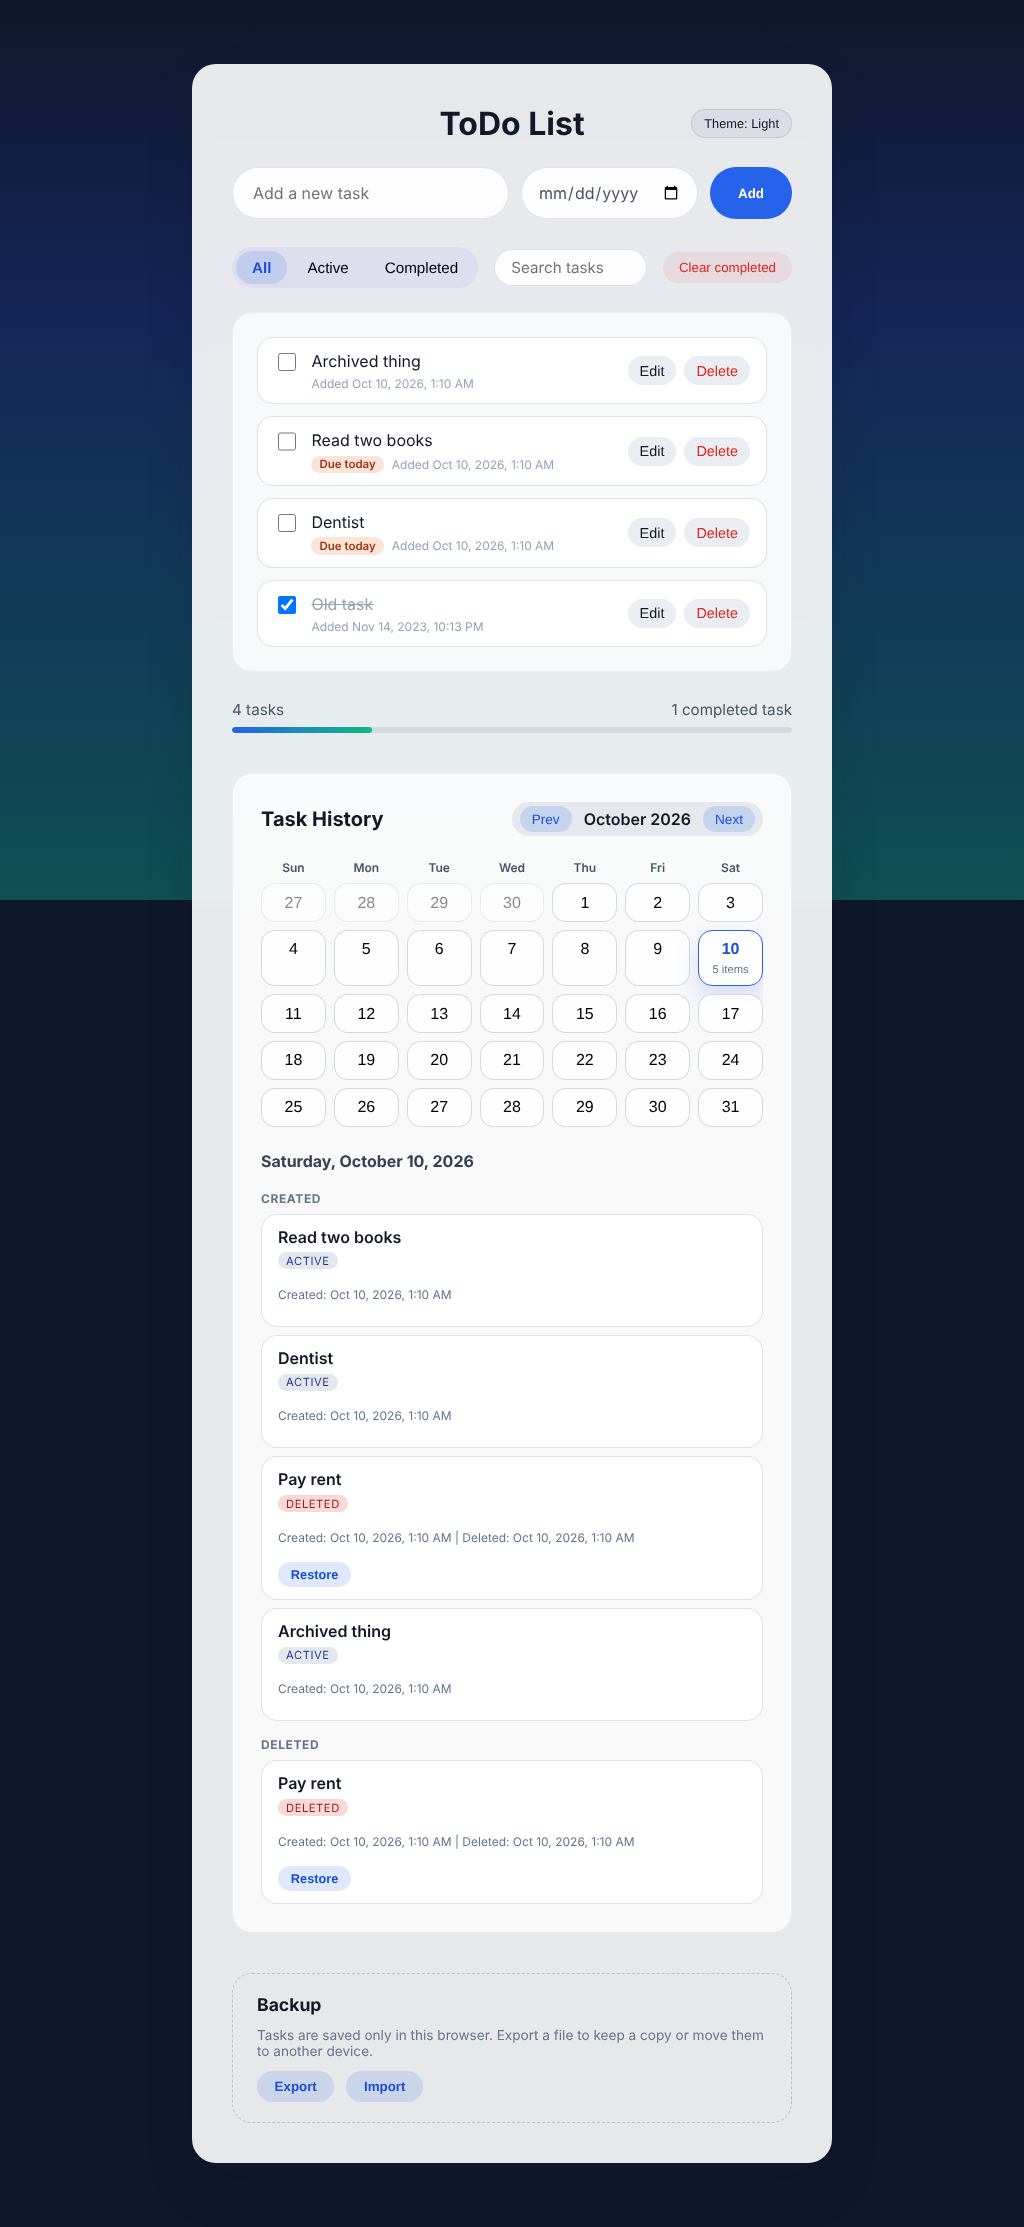
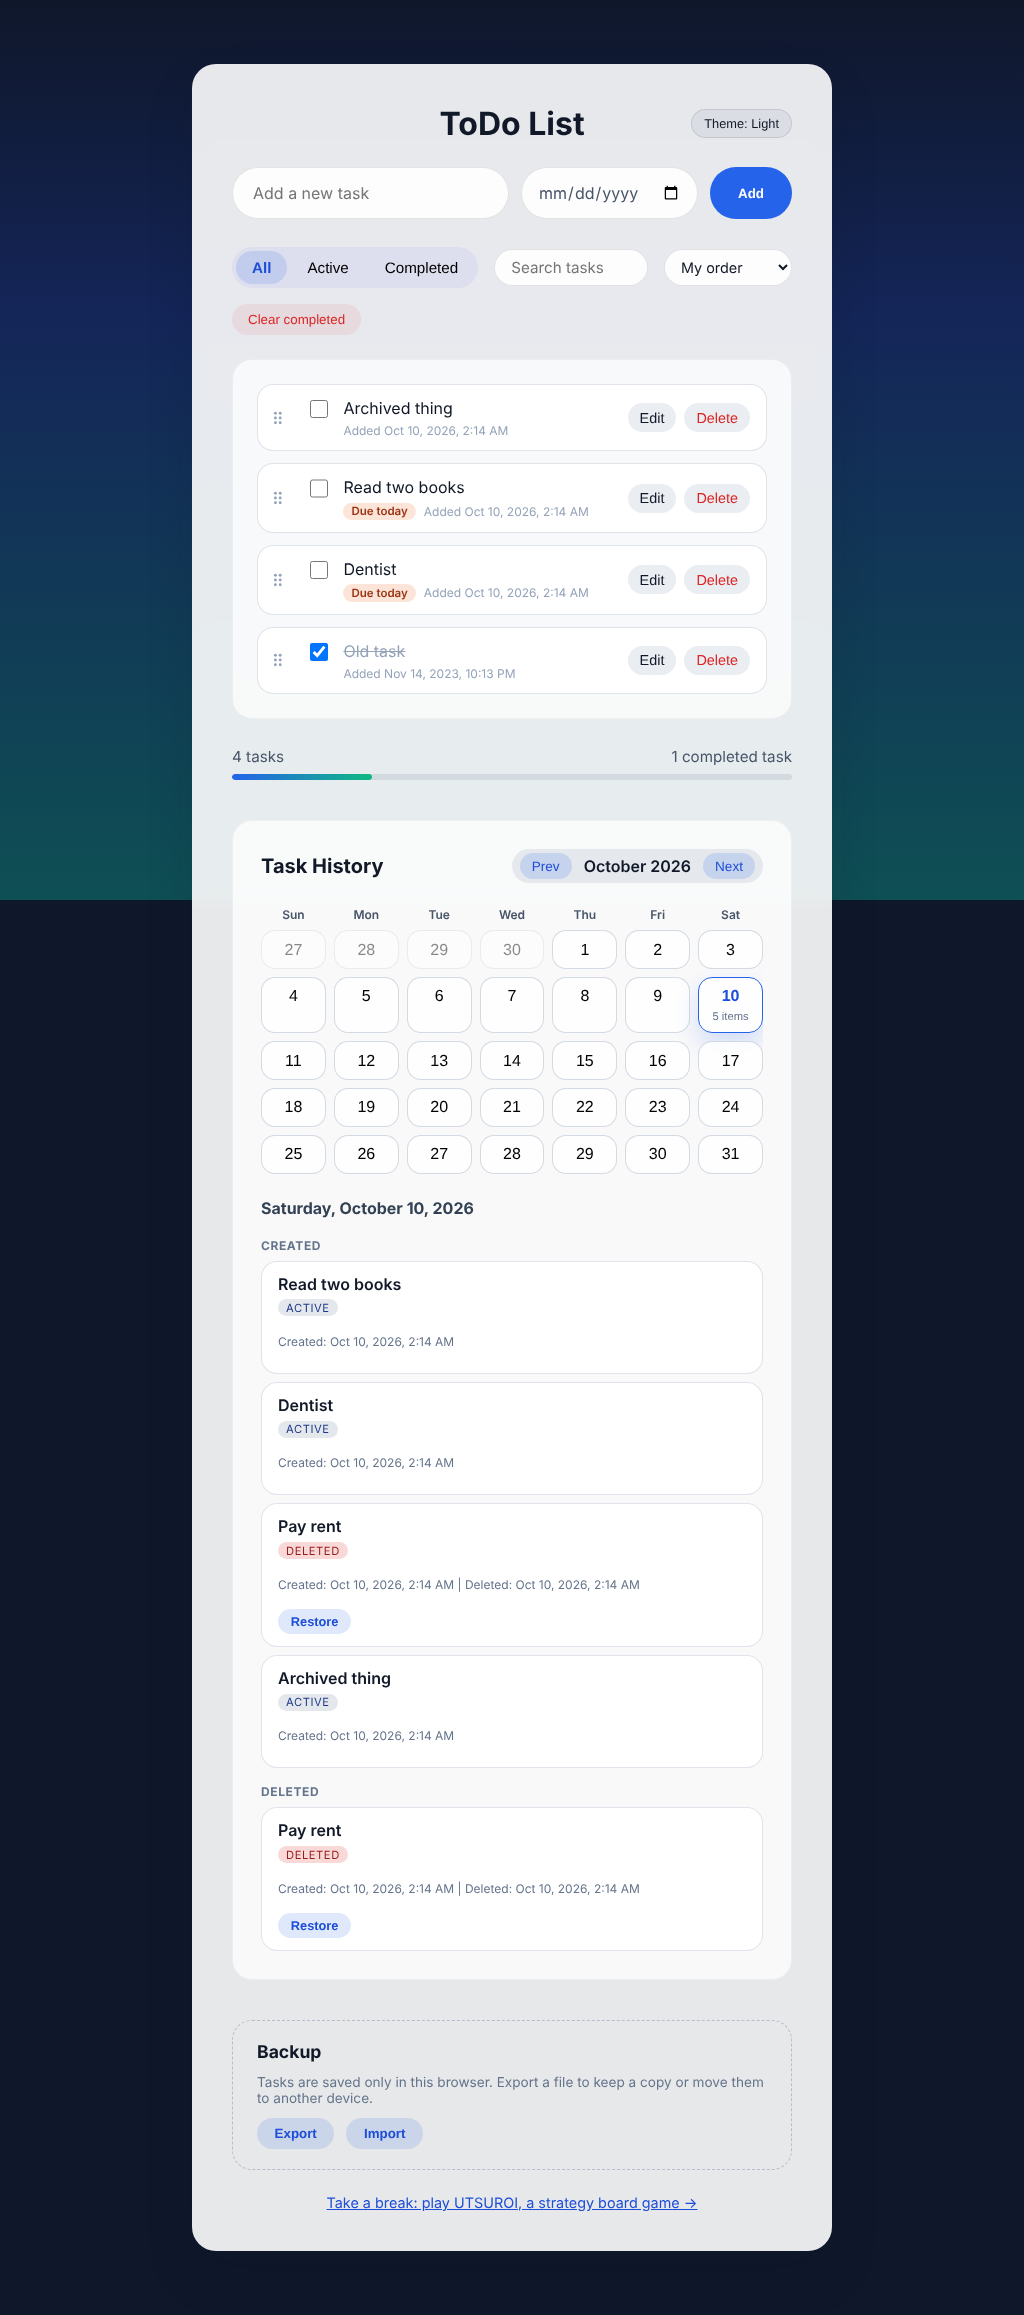
Disable undo and hints during UTSUROI lessons; update STATUS.md
Undo would roll the board back without rolling back the lesson step,
and the CPU hint does not know the lesson goal; lessons already offer
a retry button.

Claude-Session: https://claude.ai/code/session_01VHijiVTQNeJ5hRtFmcR69x

diff --git a/games/utsuroi/ui.js b/games/utsuroi/ui.js
@@ -290,8 +290,9 @@
         renderPuzzleCard();
         renderReplayCard();
         renderLessonCard();
-        undoButton.disabled = game.history.length <= 1 || game.thinking || game.mode === "replay";
-        hintButton.disabled = !isHumanTurn() || game.thinking;
+        // レッスンは「やり直す」で戻る（待ったで盤だけ戻すと、ステップとずれる）
+        undoButton.disabled = game.history.length <= 1 || game.thinking || game.mode === "replay" || game.mode === "lesson";
+        hintButton.disabled = !isHumanTurn() || game.thinking || game.mode === "lesson";
     }
 
     function renderCoords() {
@@ -1510,7 +1511,7 @@ self.onmessage = event => {
     }
 
     function undo() {
-        if (game.history.length <= 1) {
+        if (game.history.length <= 1 || game.mode === "lesson" || game.mode === "replay") {
             return;
         }
         game.token += 1;
@@ -1556,7 +1557,7 @@ self.onmessage = event => {
     }
 
     async function showHint() {
-        if (!isHumanTurn() || game.thinking) {
+        if (!isHumanTurn() || game.thinking || game.mode === "lesson") {
             return;
         }
         const token = game.token;

diff --git a/STATUS.md b/STATUS.md
@@ -27,10 +27,14 @@
 - ToDo：その場で編集、期限日、検索、削除と一括削除の Undo、履歴からの復元、配色の切り替え
   （`body.dark` の CSS はあったが切り替える処理がなかった）、ダーク配色の読みにくい文字色の修正、
   JSON でのバックアップ（書き出し・取り込み）、完了率のバー。保存データは今までの形式のまま読める。
+- ToDo（追加分）：並び順（自分で決めた順 / 期限日順）、期限切れの件数、Ctrl+Z で Undo、
+  つまみのドラッグ（マウス・タッチ）とキーボード（↑↓・Alt+↑↓）での並べ替え。
 - ゲーム「うつろい」（`games/utsuroi/`）：オリジナルの 2 人用盤上戦略ゲーム。CPU 対戦（3 段階）・2 人対戦・
   入れ替えルール・駒落ち・待った・ヒント・盤面コード。ルールは CPU 同士の対局で釣り合いを確かめて決めた。
+  さらに、盤で試すレッスン（はじめての方へ・5 つ）、詰め問題 30 問（自動生成・全問読み切りで検証）、
+  棋譜コードでの共有と再生、形勢グラフ付きの振り返り。CPU の評価の重みを自己対局で調整して強くした。
 - `tools/browser-check.js`（ブラウザでの確認）、`tools/test-utsuroi.js`（ゲームのテスト、`check.sh` から実行）、
-  `tools/utsuroi-selfplay.js`（ルールの釣り合いの確認）を追加。
+  `tools/utsuroi-selfplay.js`（ルールの釣り合いの確認）、`tools/utsuroi-make-puzzles.js`（詰め問題の生成）を追加。
 
 ## 次にやること
 
